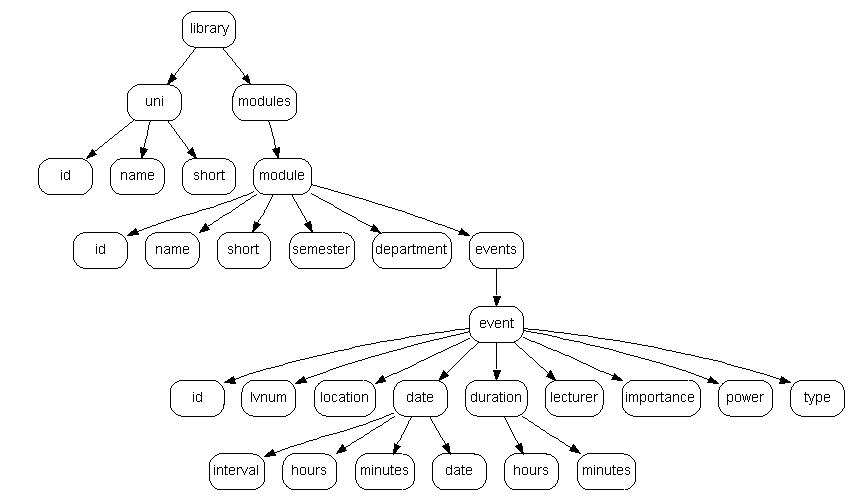
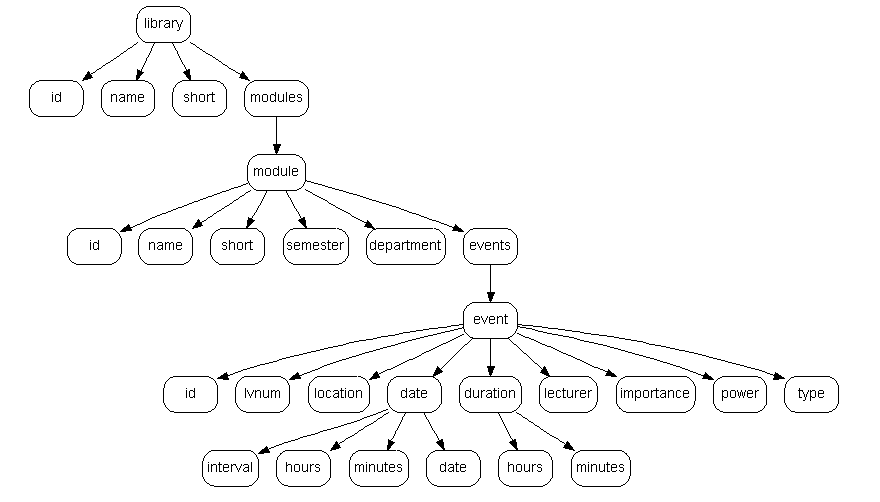
Now for UniLibrary. xsd etc. updated.

diff --git a/studyplaner/studyplaner/Services/Xml/XmlParser.cs b/studyplaner/studyplaner/Services/Xml/XmlParser.cs
@@ -14,9 +14,9 @@ namespace Studyplaner.Services.Xml
     /// </summary>
     public class XmlParser
     {
-        public static void Serialize(string filename, UniModule uniModule)
+        public static void Serialize(string filename, UniLibrary uniLibrary)
         {
-            XmlSerializer ser = new XmlSerializer(typeof(UniModule));
+            XmlSerializer ser = new XmlSerializer(typeof(UniLibrary));
             TextWriter tw = null;
             try
             {
@@ -28,7 +28,7 @@ namespace Studyplaner.Services.Xml
 
                 tw = new StreamWriter(filename);
 
-                ser.Serialize(tw, uniModule);
+                ser.Serialize(tw, uniLibrary);
                 tw.Flush();
             }
             catch (Exception e)
@@ -42,18 +42,18 @@ namespace Studyplaner.Services.Xml
             }
         }
 
-        public static UniModule DeSerialize(string filename)
+        public static UniLibrary DeSerialize(string filename)
         {
-            XmlSerializer ser = new XmlSerializer(typeof(UniModule));
+            XmlSerializer ser = new XmlSerializer(typeof(UniLibrary));
             // -- to handle incorrect Input --
             //ser.UnknownNode += new XmlNodeEventHandler(XmlSerializer_UnknownNode);
             //ser.UnknownAttribute +=
             FileStream fs = null;
-            UniModule mo = null;
+            UniLibrary lib = null;
             try
             {
                 fs = new FileStream(filename, FileMode.Open);
-                mo = (UniModule)ser.Deserialize(fs);
+                lib = (UniLibrary)ser.Deserialize(fs);
             }
             catch (Exception e)
             {
@@ -64,7 +64,7 @@ namespace Studyplaner.Services.Xml
                 if (fs != null)
                     fs.Close();
             }
-            return mo;
+            return lib;
         }
     }
 }

diff --git a/studyplaner/studyplaner/Materials/Uni/UniLibrary.cs b/studyplaner/studyplaner/Materials/Uni/UniLibrary.cs
@@ -1,15 +1,34 @@
-using System;
-using System.Collections.Generic;
-using System.Linq;
-using System.Text;
+using System.Collections.Generic;
+using System.Xml.Serialization;
 
 namespace Studyplaner.Materials.Uni
 {
+    [XmlRootAttribute(ElementName="library")]
     public class UniLibrary
     {
+        /// <summary>
+        /// The (hopefully) unique id of the uni.
+        /// </summary>
+        [XmlElement(ElementName="id")]
         public int ID { get; set; }
+
+        /// <summary>
+        /// The uni's name.
+        /// </summary>
+        [XmlElement(ElementName="name")]
         public string Name { get; set; }
+
+        /// <summary>
+        /// The abbreviation of the uni's name.
+        /// </summary>
+        [XmlElement(ElementName="short")]
         public string Short { get; set; }
+
+        /// <summary>
+        /// The modules of this uni.
+        /// </summary>
+        [XmlArray(ElementName="modules")]
+        [XmlArrayItem(ElementName="module")]
         public List<UniModule> Modules { get; set; }
     }
 }

diff --git a/studyplaner/studyplaner/Program.cs b/studyplaner/studyplaner/Program.cs
@@ -43,11 +43,17 @@ namespace Studyplaner
             mo.Department = Enums.Department.IT;
             mo.UniID = 1111;
 
+            UniLibrary lib = new UniLibrary();
+            lib.ID = 1111;
+            lib.Name = "Uni HH";
+            lib.Short = "UHH";
+            lib.Modules = new List<UniModule>() { mo };
+
             string filename = @"test.xml"; // is in debug dir -.-'
-            XmlParser.Serialize(filename, mo);
-            Console.WriteLine("Original Event: " + ev.ID);
-            UniModule module = XmlParser.DeSerialize(filename);
-            Console.WriteLine("The read Event: " + module.ID + " " + module.Events);
+            XmlParser.Serialize(filename, lib);
+            Console.WriteLine("Original Library: " + lib.ID);
+            UniLibrary library = XmlParser.DeSerialize(filename);
+            Console.WriteLine("The read Library: " + library.ID + " " + library.Modules);
         }
     }
 }
